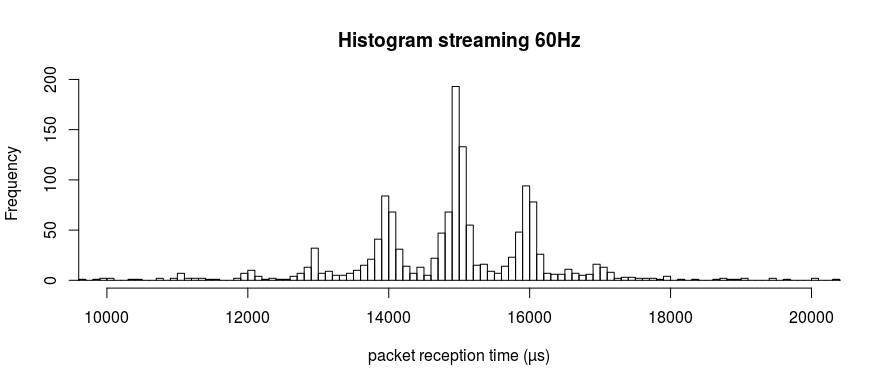
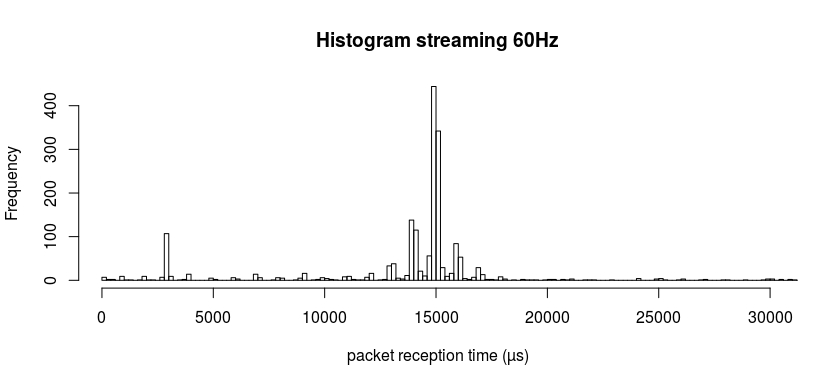
Results for 60 and 80Hz streaming in pre-report

diff --git a/rapport/prerapport/design.tex b/rapport/prerapport/design.tex
@@ -21,13 +21,23 @@ Le niveau de charge pourrait influencer la conduite.
 Il se pourrait que la puissance maximale des moteurs diminuent lorsque la charge est trop faible.
 Pour ne pas devoir effectuer un entrainement pour chaque niveau de charge différent, on entrainera la Sphero que pour les cas où le niveau de charge est à \enum{OK} et on supposera donc que la conduite sera effectuée qu'avec ce niveau de charge.
 
+Un odomètre n'est pas approprié pour la mesure de position dans notre application.
+En effet, la distance parcourue n'est mesurée qu'à partir du roulement du moteur permettant le déplacement.
+La distance parcourue par dérapage ne sera pas comptabilisée.
+Cela a été vérifié lors de l'expérience menée dans la section \ref{sec:choixdesign}.
+Une camera sera utilisée pour tracer la position réelle de la Sphero.
+
 Pour l'accélération, les commandes à appliquer à l'instant $t$ ne dépendent pas de l'accélération à l'instant $t$ juste avant l'application des commandes.
 Mais par contre, cette donnée peut être utile pour anticiper la vitesse de la Sphero au moment où elle reçoit les commandes car du à la latence d'envoi de paquet, la vitesse à l'instant $t$ n'est plus la même que celle communiquée.
 Si cette donnée impacte peu dans les résultats obtenus, alors nous pourrions décider de nous passer de ce paramètre.
 Ajouter cette dimension dans le vecteur d'entrée demandera un plus grand nombre d'exemples pour la phases d'apprentissage car il faut balayer toutes les configurations possibles de vecteur d'entrée.
 
-\newcommand{\inchist}[1]{\includegraphics[width=12cm]{../figures/hist#1.jpeg}}
-\subsection{Choix du design}
+\newcommand{\inchist}[1]{
+ \begin{minipage}{0.48\textwidth}
+  \includegraphics[width=10cm]{../figures/hist#1.jpeg}
+ \end{minipage}
+}
+\subsection{Choix du design}\label{sec:choixdesign}
  %TODO montrer les design repris chez gauthier
 Pour une meilleure précision, on ajoute un vecteur vitesse à atteindre sur le point de destination.
 On aligne l'axe des abscisses avec l'axe de l'orientation du moteur afin de reduire le domaine d'entrée et donc le nombre d'exemples à créer pour l'apprentissage.
@@ -50,33 +60,41 @@ La vitesse maximale de la Sphero est de 4,5 miles par heure.\cite{product} Ce qu
 \begin{figure}
  \centering
  \inchist{20}
+ \inchist{40}
  \inchist{60}
  \inchist{80}
  \inchist{100}
  \inchist{200}
- \caption{Histogrammes de temps de réception de packet streamé}
+ \caption{Histogrammes de temps de réception de packet streamé. Générés via script R}
  \label{histogrammes}
 \end{figure}
 
-À la Figure \ref{histogrammes} sont repris les histogrammes de temps de réceptions de paquets pour différentes fréquence d'échantillonage.
+À la Figure \ref{histogrammes} sont repris les histogrammes de temps de réceptions de paquets pour différentes fréquences d'échantillonage.
 En plus du streaming, pour chaque paquet reçu, un paquet est envoyé à la Sphero pour changer les leds.
-Cela nous permet d'obtenir des résultats qui se rapprocheront de ce que nous obtiendrons si nous envoyons de nouvelles commande chaque pour chaque période $T$.
+Cela nous permet d'obtenir des résultats qui se rapprocheront de ce que nous obtiendrons si nous envoyons une nouvelle commande à chaque période $T$.
+La configuration de l'ordinateur utilisé est la suivante:
+\begin{itemize}
+ \item AMD Athlon(tm) X2 Dual-Core QL-64
+ \item Carte mère EI Capitan
+ \item 3 Go de RAM DDR2
+ \item disque dur ST9250827AS 5400rpm
+ \item Adapteur USB bluetooth BT009x, transfert 1Mbs.
+ \item OS: Linux 4.4.0-57-generic, Ubuntu 16.04.4
+\end{itemize}
+
 On observe tout d'abord que les temps de réception ont l'air de suivre une cadence de 1ms.
 Cela peut s'expliquer par le fait que la Sphero 2.0 a une granularité de 1ms pour l'éxecution de macro.\cite{product}
+%Plus $T$ est petit, plus notre système de commande est réactif et, toutes choses égales par ailleur, nous pouvons effectuer des mouvements plus précis.
+Pour les critères de choix d'une valeur pour $T$, deux critères sont pris en compte:
+\begin{enumerate}
+ \item La stabilité du streaming. Moins la densité de probabilité de temps de réception de paquet est concentrée sur le voisinage de $T$, moins la solutions sera précise.
+ \item Le temps de réaction. Plus $T$ est grand, moins la trajectoire de la Sphero sera fidèle à la trajectoire voulue.
+ Nous pouvons compenser ce manque de précision par un vecteur d'entrée plus complexe mais la solution converge alors moins vite et un ensemble d'apprentissage plus conséquent doit être fournis.
+\end{enumerate}
 
-Voici les moyennes et écart-types estimées temps de récéptions de packet:\\ %FIXME pas gaussien FIXME inclure config du PC FIXME pas encore parler des donnees collectees
-
-\begin{center}
-\begin{tabular}{|l|r|r|}
- \hline
- Fréquence & Moyenne estimée & écart-type estimé\\
- de streaming (Hz) & (microseconde) & (microseconde)\\
- \hline
- 20 & 52814 & 16256\\
- 60 & 15682 & 6143\\
- 80 & 13201 & 6639\\
- 100 & 10681 & 6567\\
- 200 & 8070 & 2632\\
- \hline
-\end{tabular}
-\end{center}
+On oberve que la stabilité du streaming varie selon la fréquence.
+Prenons le streaming à 60Hz. On observe que en moyenne les paquets arrivent toutes les 15 millisecondes.
+La distance maximale que peut parcourir la Sphero en 15ms est de 3 cm.
+Le manque de précision dû au temps de réaction est dans ce cas négligeable pour des trajectoires à grande vitesse de l'ordre de quelque mètres.
+De plus, ce streaming étant le plus stable, c'est cette fréquence qui sera utilisée.
+Nous considèrerons donc que $T$ = 15ms malgré que la fréquence est règlée à 60Hz.
